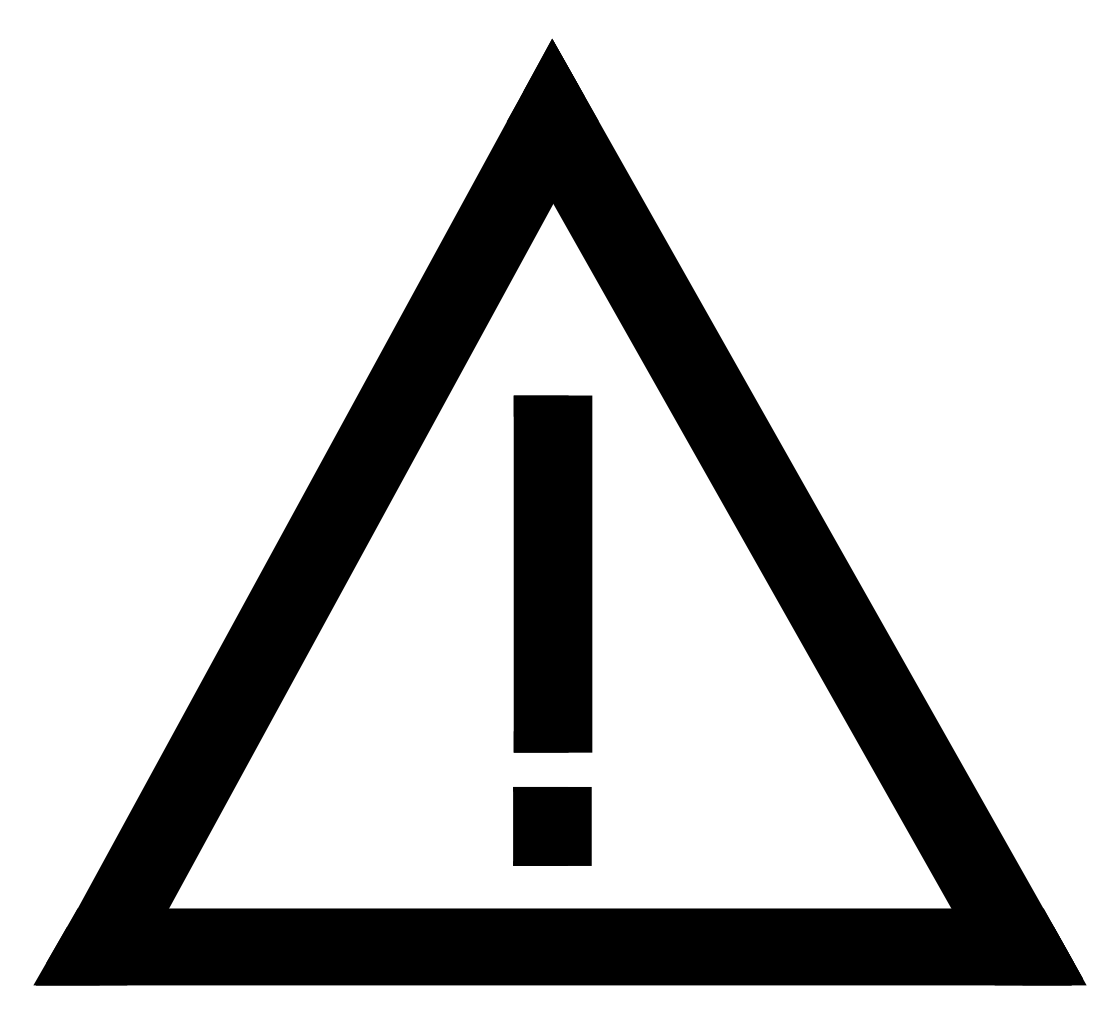
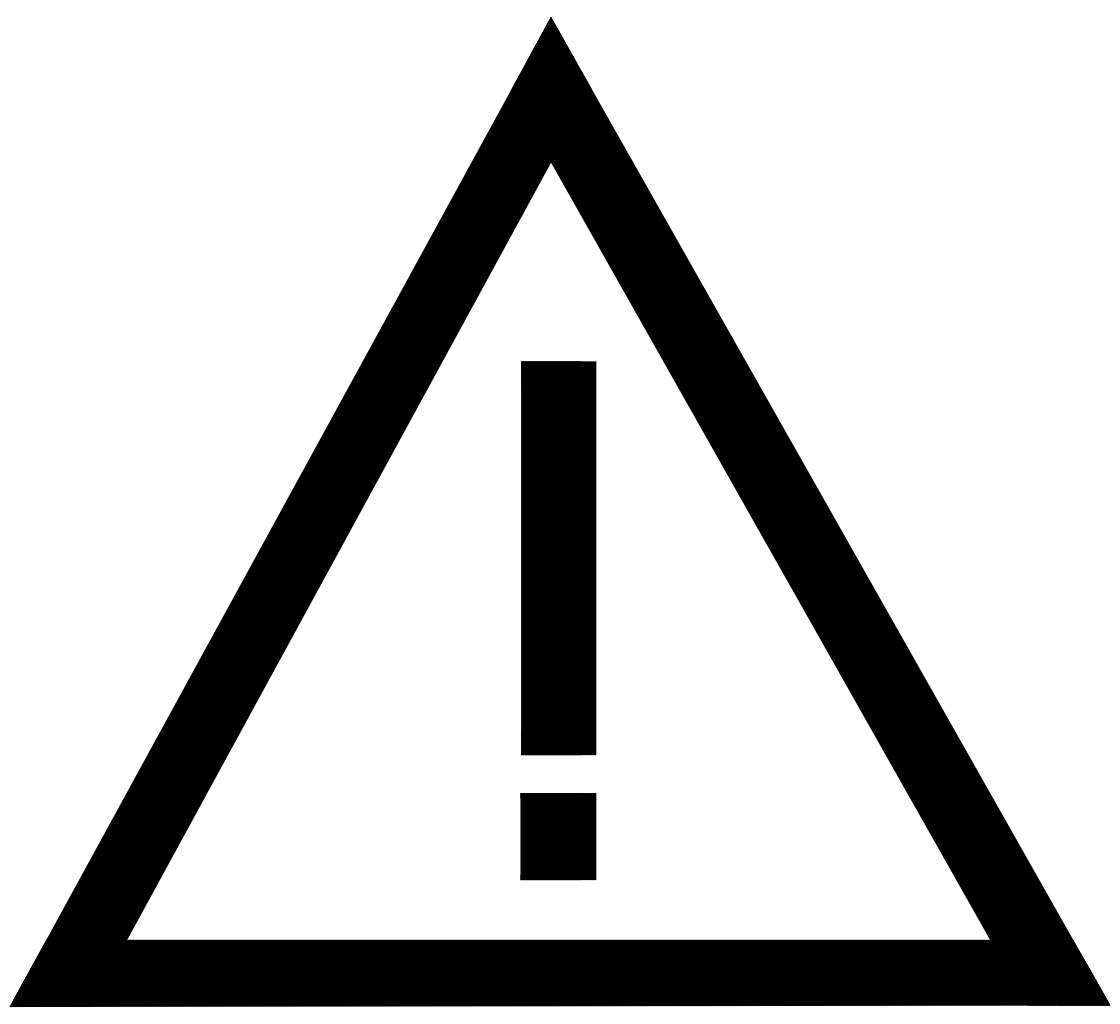
UI updates

diff --git a/components/customComponents/AwesomeUserHeader.jsx b/components/customComponents/AwesomeUserHeader.jsx
@@ -80,23 +80,23 @@ const AwesomeUserHeader = ({
                 <View style={{ flex: 1, marginLeft: 20 }}>
                     <View style={[styles.followersContainer, styles.row]}>
                         <View style={styles.followersSubContainer}>
-                            <Text style={styles.followersText}>{user.pollsNumber ?? 0}</Text>
-                            <Text style={styles.followersText}>{(user.pollsNumber ?? 0) == 1 ? 'poll' : 'polls'}</Text>
+                            <Text style={[styles.followersText, styles.fontFamilyBold]}>{user.pollsNumber ?? 0}</Text>
+                            <Text style={[styles.followersText, styles.fontFamilyBold]}>{(user.pollsNumber ?? 0) == 1 ? 'poll' : 'polls'}</Text>
                         </View>
                         <Pressable style={styles.followersSubContainer} onPress={() => navigation.navigate('Followers', { userId: user.userId })}>
-                            <Text style={styles.followersText}>{user.followersNumber ?? 0}</Text>
-                            <Text style={styles.followersText}>followers</Text>
+                            <Text style={[styles.followersText, styles.fontFamilyBold]}>{user.followersNumber ?? 0}</Text>
+                            <Text style={[styles.followersText, styles.fontFamilyBold]}>followers</Text>
                         </Pressable>
                         <Pressable style={styles.followersSubContainer} onPress={() => navigation.navigate('Following', { userId: user.userId })}>
-                            <Text style={styles.followersText}>{user.followingNumber ?? 0}</Text>
-                            <Text style={styles.followersText}>following</Text>
+                            <Text style={[styles.followersText, styles.fontFamilyBold]}>{user.followingNumber ?? 0}</Text>
+                            <Text style={[styles.followersText, styles.fontFamilyBold]}>following</Text>
                         </Pressable>
                     </View>
                 </View>
             </View>
 
             <View style={{ marginTop: 8, marginBottom: 6 }}>
-                <Text style={[styles.font14, styles.usernameBold, styles.fontFamily]} numberOfLines={1}>
+                <Text style={[styles.font14, styles.usernameBold, styles.fontFamilyBold]} numberOfLines={1}>
                     {user.username}
                 </Text>
                 <Text style={[styles.font14, styles.fontFamily]} numberOfLines={2} ellipsizeMode="tail">
@@ -209,7 +209,10 @@ const styles = StyleSheet.create({
         fontWeight: "bold",
     },
     fontFamily: {
-        fontFamily: 'arial',
+        fontFamily: 'Ubuntu-Regular',
+    },
+    fontFamilyBold: {
+        fontFamily: 'Ubuntu-Bold',
     },
     followersContainer: {
         justifyContent: 'space-between',
@@ -222,8 +225,7 @@ const styles = StyleSheet.create({
     },
     followersText: {
         color: Colors.black,
-        fontSize: 14,
-        fontWeight: '600',
+        fontSize: 15,
     },
     buttonsContainer: {
         justifyContent: "space-between",

diff --git a/components/customComponents/AwesomeVote.jsx b/components/customComponents/AwesomeVote.jsx
@@ -192,8 +192,8 @@ const AwesomeVote = ({
     return (
         <View style={styles.container}>
             <View style={[styles.row, styles.questionContainer]}>
-                <Text style={[styles.qTextStyle, styles.fontFamilyStyle]}>Q: </Text>
-                <Text style={[styles.title, styles.fontFamilyStyle]}>{question}</Text>
+                <Text style={[styles.qTextStyle, styles.fontFamilyStyleBold]}>Q: </Text>
+                <Text style={[styles.title, styles.fontFamilyStyleBold]}>{question}</Text>
             </View>
             <View style={styles.votingFrame}>
                 <View style={[styles.controlSignsContainer, styles.row]}>
@@ -202,14 +202,14 @@ const AwesomeVote = ({
                             <Pressable style={styles.iconContainer} onPress={()=>setModalVisible(true)}>
                                 <Image
                                     source={require('../../assets/images/deleteBlack.png')}
-                                    style={{ width: 26, height: 26 }}
+                                    style={{ width: 24, height: 24 }}
                                     resizeMode="contain"
                                 />
                             </Pressable>
                             <TouchableOpacity style={styles.iconContainer} onPress={() => onShare(id)}>
                                 <Image
                                     source={require('../../assets/images/shareBlack.png')}
-                                    style={{ width: 28, height: 28 }}
+                                    style={{ width: 26, height: 26 }}
                                     resizeMode="contain"
                                 />
                             </TouchableOpacity>
@@ -283,7 +283,7 @@ const AwesomeVote = ({
                                     </View>
                                 </View>
                                 <View style={styles.resultsNumberContainer}>
-                                    <Text style={[styles.buttonText, styles.fontFamilyStyle, {
+                                    <Text style={[styles.buttonText, styles.fontFamilyStyleBold, {
                                         color: Colors.black,
                                         fontWeight: selected === option.id ? "600" : "400"
                                     }]}>{percentMap.current?.get(option.id) || 0}%</Text>
@@ -365,7 +365,10 @@ const styles = StyleSheet.create({
         marginBottom: 10
     },
     fontFamilyStyle: {
-        fontFamily: 'CourierPrime-Regular'
+        fontFamily: 'Ubuntu-Regular'
+    },
+    fontFamilyStyleBold: {
+        fontFamily: 'Ubuntu-Bold'
     },
     controlSignsContainer: {
         justifyContent: 'flex-end',

diff --git a/components/customComponents/AwesomeUserHeaderPreview.jsx b/components/customComponents/AwesomeUserHeaderPreview.jsx
@@ -110,6 +110,7 @@ const styles = StyleSheet.create({
         flexDirection: "row",
         alignItems: "center",
         paddingVertical: 6,
+        width: "100%",
     },
     avatar: {
         width: 50,
@@ -122,17 +123,19 @@ const styles = StyleSheet.create({
     },
     username: {
         fontWeight: "bold",
-        fontSize: 14,
+        fontSize: 15,
         color: Colors.black,
-        marginBottom: 1
+        marginBottom: 1,
+        fontFamily: 'Ubuntu-Bold',
     },
     subText: {
         fontSize: 14,
         color: Colors.grey,
+        fontFamily: 'Ubuntu-Regular',
     },
     buttonContainer: {
         marginLeft: 10,
-        width: 80,
+        width: 87,
         alignSelf: "flex-end"
     },
 });

diff --git a/components/customComponents/AwesomeButton.jsx b/components/customComponents/AwesomeButton.jsx
@@ -133,12 +133,12 @@ export default function AwesomeButton({
     );
 }
 
-    const styles = StyleSheet.create({
+const styles = StyleSheet.create({
     buttonMain: {
         justifyContent: 'center',
         alignItems: 'center',
         height: 40,
-        minWidth: 80,
+        minWidth: 87,
         paddingHorizontal: 10
     },
     buttonGreen: {
@@ -181,10 +181,10 @@ export default function AwesomeButton({
         opacity: 0.5,
     },
     buttonMainText: {
-        fontSize: 14,
+        fontSize: 15,
         textAlign: 'center',
         fontWeight: '500',
-        //width: '100%'
+        fontFamily: 'Ubuntu-Bold',
     },
     leftAlignedText: {
         textAlign: 'left',

diff --git a/App.js b/App.js
@@ -45,6 +45,8 @@ export default function App() {
             await Font.loadAsync({
                 'CourierPrime-Regular': require('./assets/fonts/CourierPrime-Regular.ttf'),
                 'CourierPrime-Bold': require('./assets/fonts/CourierPrime-Bold.ttf'),
+                'Ubuntu-Regular': require('./assets/fonts/UbuntuMono-Regular.ttf'),
+                'Ubuntu-Bold': require('./assets/fonts/UbuntuMono-Bold.ttf'),
             });
 
             setFontLoaded(true);

diff --git a/components/customComponents/AwesomeReportPoll.jsx b/components/customComponents/AwesomeReportPoll.jsx
@@ -68,7 +68,7 @@ const ReportPoll = ({ onReport }) => {
             <TouchableOpacity onPress={openSheet}>
                 <Image
                     source={require('../../assets/images/reportBlack.png')}
-                    style={{ width: 29, height: 29 }}
+                    style={{ width: 28, height: 28 }}
                     resizeMode="contain"
                 />
             </TouchableOpacity>

diff --git a/components/customComponents/AwesomeLikeButton.jsx b/components/customComponents/AwesomeLikeButton.jsx
@@ -22,7 +22,7 @@ export default function AwesomeLikeButton({ pollId, isLikedParam }) {
 
     return (
         <View>
-            <Pressable onPress={onPressHandler}>
+            <Pressable onPress={onPressHandler} style={{marginLeft: 4}}>
                 <Image
                     source={
                         isLiked

diff --git a/components/customComponents/AwesomeSwitcher.jsx b/components/customComponents/AwesomeSwitcher.jsx
@@ -52,8 +52,9 @@ const styles = StyleSheet.create({
         alignItems: "center",
     },
     text: {
-        fontSize: 14,
+        fontSize: 15,
         color: Colors.grey,
+        fontFamily: 'Ubuntu-Bold',
     },
     activeTabLeft: {
         backgroundColor: Colors.white,
